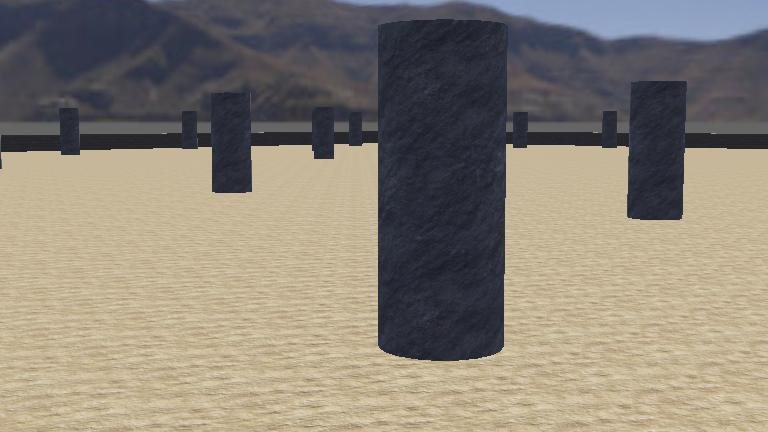
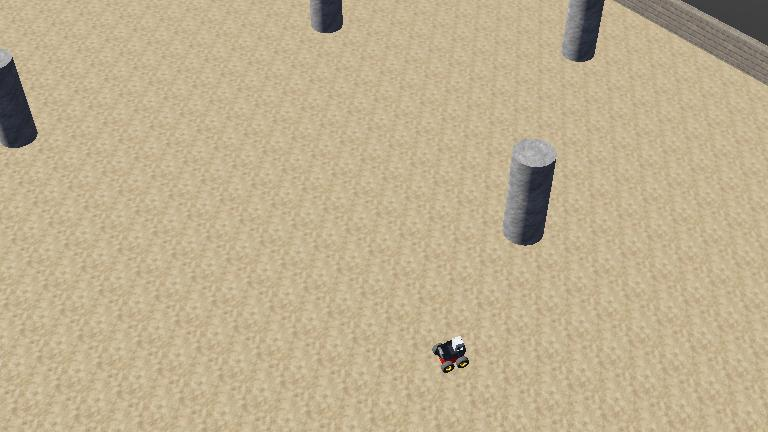
Complete robot dashboard with connection management and latency

diff --git a/Car/backend/static/style.css b/Car/backend/static/style.css
@@ -1,0 +1,115 @@
+body{
+    margin:0;
+    padding:30px;
+    background:#202124;
+    color:rgb(255, 255, 255);
+    font-family:Arial, Helvetica, sans-serif;
+    text-align:center;
+}
+
+h1{
+    margin-bottom:30px;
+}
+
+.dashboard{
+
+    width:700px;
+    margin:auto;
+    margin-bottom:35px;
+
+}
+
+.card{
+
+    display:flex;
+
+    justify-content:space-between;
+
+    background:#2d2d2d;
+
+    padding:15px 20px;
+
+    margin:10px 0;
+
+    border-radius:10px;
+
+    font-size:20px;
+
+}
+
+.label{
+
+    font-weight:bold;
+
+}
+
+button{
+
+    width:150px;
+
+    height:70px;
+
+    margin:12px;
+
+    font-size:20px;
+
+    border:none;
+
+    border-radius:12px;
+
+    cursor:pointer;
+
+    touch-action:none;
+
+    transition:0.2s;
+
+}
+
+button:hover{
+
+    transform:scale(1.05);
+
+}
+
+#forward,
+#backward,
+#left,
+#right{
+
+    background:#4CAF50;
+
+    color:white;
+
+}
+
+#stop{
+
+    background:#d32f2f;
+
+    color:white;
+
+}
+
+#connect{
+
+    background:#1976D2;
+
+    color:white;
+
+}
+
+#disconnect{
+
+    background:#616161;
+
+    color:white;
+
+}
+
+.footer{
+
+    margin-top:25px;
+
+    color:#9e9e9e;
+
+}

diff --git a/Car/backend/static/script.js b/Car/backend/static/script.js
@@ -3,9 +3,9 @@
 const protocol =
     window.location.protocol === "https:" ? "wss" : "ws";
 
-const socket = new WebSocket(
-    `${protocol}://${window.location.host}/ws`
-);
+let socket = null;
+
+let startTime = 0;
 
 // Store the current robot state
 let robotState = {
@@ -13,29 +13,78 @@ let robotState = {
     steering: "straight"
 };
 
-socket.onopen = () => {
-    console.log("✅ WebSocket Connected");
-};
+// Connect function
 
-socket.onclose = () => {
-    console.log("❌ WebSocket Disconnected");
-};
+function connect(){
+    if (socket !== null) return;
 
-socket.onerror = (error) => {
-    console.error("WebSocket Error:", error);
-};
+    socket = new WebSocket(
+        `${protocol}://${window.location.host}/ws`
+    );
+
+    socket.onopen = () => {
+        console.log("connected");
+
+        document.getElementById("robot-status").innerHTML = "connected";
+
+    };
+
+    socket.onclose = () => {
+        console.log("Disconnected");
+
+        document.getElementById("robot-status").innerHTML = "Disconnected";
+
+        socket = null;
+    };
+
+    socket.onerror = () => {
+
+        document.getElementById("robot-status").innerHTML = "Connecting error";
+
+    };
+
+    socket.onmessage = (event) => {
+
+        const data = JSON.parse(event.data);
+
+        const latency = performance.now() - startTime;
+
+        document.getElementById("latency").innerHTML = latency.toFixed(1) + " ms";
+
+        document.getElementById("motion-status").innerHTML = data.motion.toUpperCase();
+
+        document.getElementById("steering-status").innerHTML = data.steering.toUpperCase();
+
+    }
+}
+
+// Disconnect Function
+function disconnect(){
+    if (socket == null) return;
+
+    socket.close();
+
+}
 
 // Send Current State
 
 function sendState() {
 
+    if(socket == null){
+        return;
+    }
+
+    if(socket.readyState !== WebSocket.OPEN){
+        return;
+    }
+
     if (socket.readyState !== WebSocket.OPEN) {
         console.log("Socket not connected yet");
         return;
     }
-
-    document.getElementById("cmd").innerHTML =
-        `${robotState.motion.toUpperCase()} | ${robotState.steering.toUpperCase()}`;
+    startTime = performance.now();
+    document.getElementById("motion-status").innerHTML =
+        `${robotState.motion.toUpperCase()}`;
 
     socket.send(JSON.stringify(robotState));
 }
@@ -111,23 +160,27 @@ right.onpointercancel = () => {
     sendState();
 };
 
-let startTime = 0;
-
-function sendState() {
-
-    startTime = performance.now();
-
-    socket.send(JSON.stringify(robotState));
-
+// connect button 
+document.getElementById("connect").onclick = () => {
+    connect();
 }
 
-socket.onmessage = (event) => {
+// Disconnect Button
+document.getElementById("disconnect").onclick = () => {
+    disconnect();
+}
 
-    const latency = performance.now() - startTime;
+// if (socket !== null) {
+//     let startTime = 0;
 
-    console.log(`Latency: ${latency.toFixed(2)} ms`);
+//     socket.onmessage = (event) => {
 
-    document.getElementById("latency").innerHTML =
-        latency.toFixed(2) + " ms";
+//         const latency = performance.now() - startTime;
 
-};
+//         console.log(`Latency: ${latency.toFixed(2)} ms`);
+
+//         document.getElementById("latency").innerHTML =
+//             latency.toFixed(2) + " ms";
+
+//     };
+// }

diff --git a/Car/backend/static/index.html b/Car/backend/static/index.html
@@ -7,48 +7,7 @@
 
 <title>Robot Remote</title>
 
-<style>
-
-body{
-    background:#202124;
-    color:white;
-    font-family:Arial;
-    text-align:center;
-}
-
-h1{
-    margin-top:40px;
-}
-
-button{
-
-    width:150px;
-    height:80px;
-
-    font-size:24px;
-
-    margin:15px;
-
-    border-radius:15px;
-
-    border:none;
-
-    cursor:pointer;
-}
-
-.status{
-
-    font-size:22px;
-    margin:20px;
-
-}
-
-button {
-    touch-action: none;
-}
-
-</style>
-
+<link rel="stylesheet" href="static/style.css"
 </head>
 
 <body>
@@ -58,7 +17,29 @@ button {
 <div class="status">
 
 Current Command :
-<span id="cmd">STOP</span>
+<div class="dashboard">
+
+    <div class="card">
+        <span class="label">Robot Status: </span>
+        <span id="robot-status">Disconnected</span>
+    </div>
+
+    <div class="card">
+        <span class="label">Latency: </span>
+        <span id="latency">0 ms</span>
+    </div>
+
+    <div class="card">
+        <span class="label">Motion: </span>
+        <span id="motion-status">STOP</span>
+    </div>
+
+    <div class="card">
+        <span class="label">Steering</span>
+        <span id="steering-status">STRAIGHT</span>
+    </div>
+
+</div>
 
 </div>
 
@@ -75,6 +56,12 @@ Current Command :
 <br>
 
 <button id="backward">⬇ Backward</button>
+
+<br><br>
+
+<button id="connect">Connect</button>
+
+<button id="disconnect">Disconnect</button>
 
 <script src="static/script.js"></script>
 